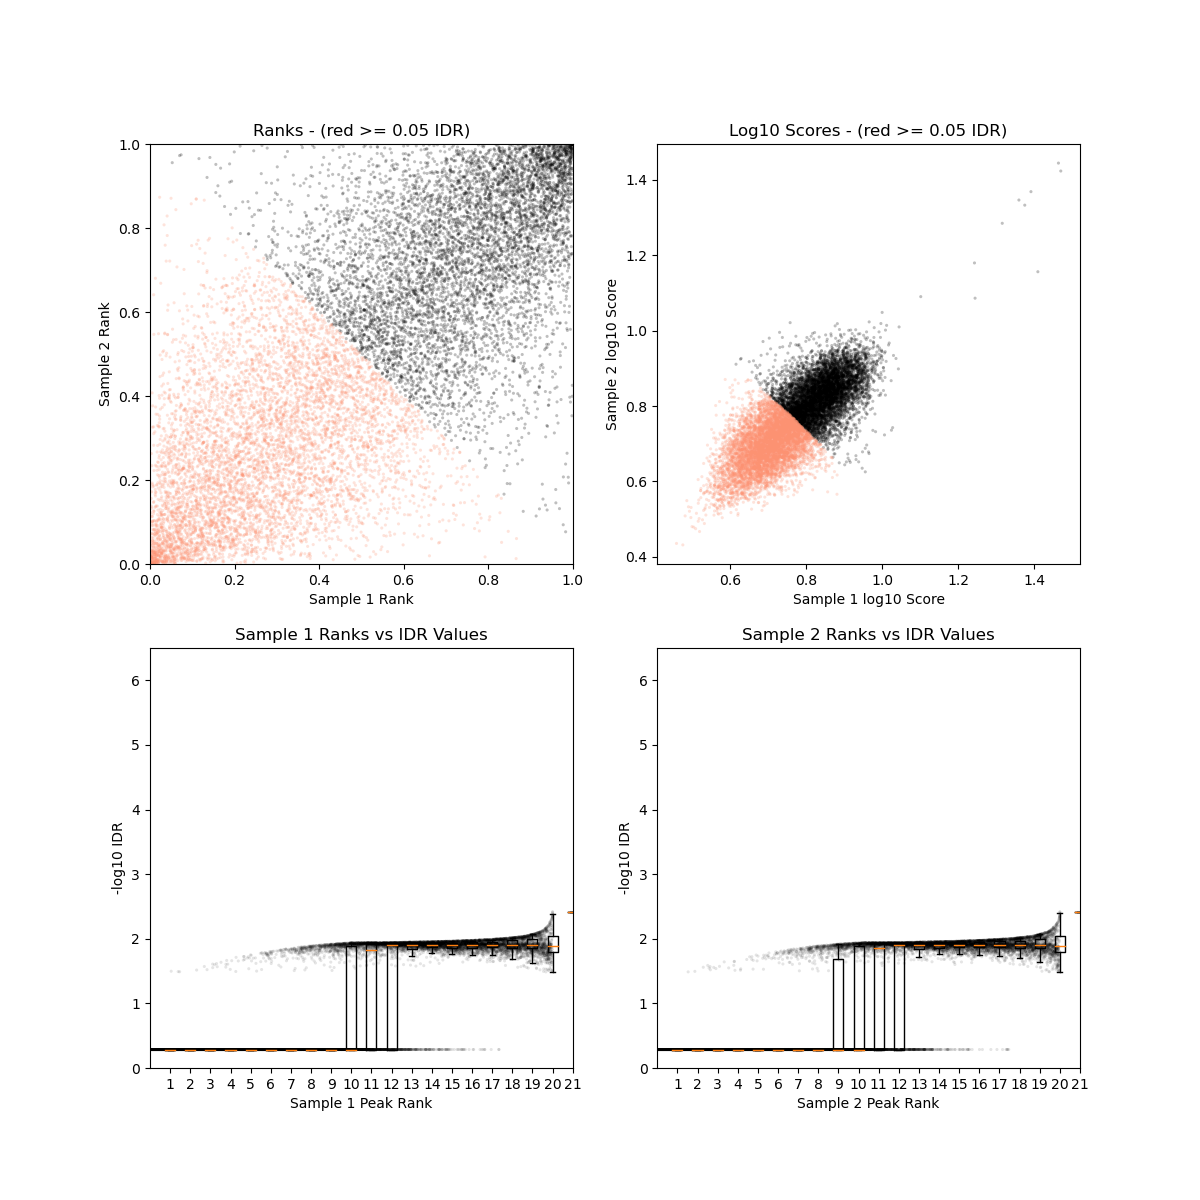
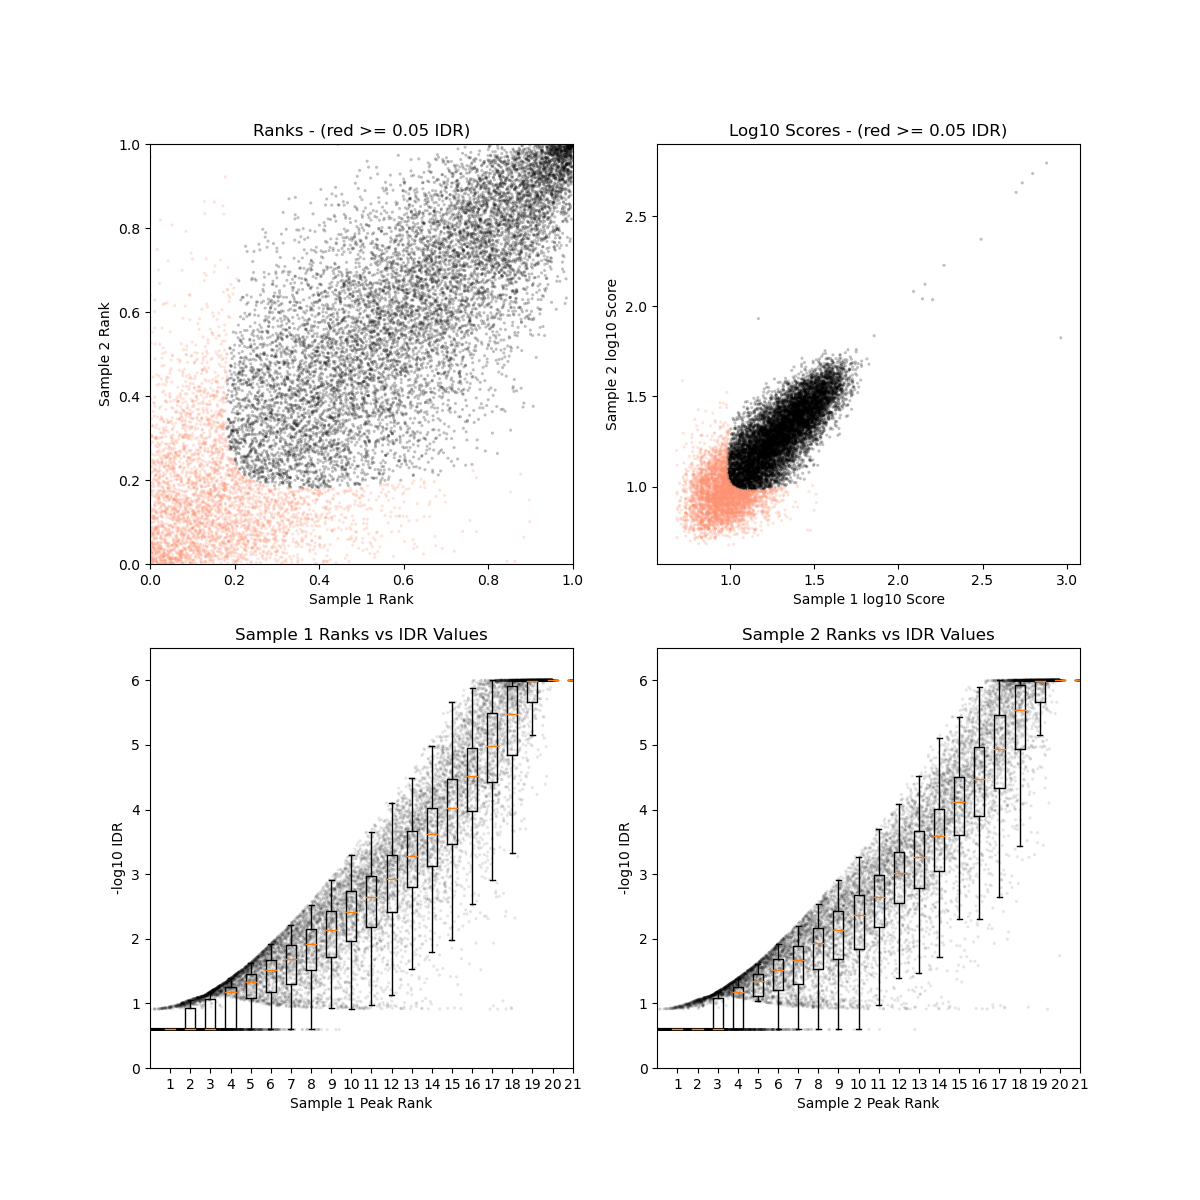
idr

diff --git a/ATAC完整流程.md b/ATAC完整流程.md
@@ -1494,7 +1494,7 @@ If starting with < 100K pre-IDR peaks for large genomes (human/mouse): For true 
 Use a tighter threshold for pooled-consistency since pooling and subsampling equalizes the pseudo-replicates in terms of data quality. Err on the side of caution and use more stringent IDR threshold of 0.01.  
 
 ```
-4. 代码：尝试分别用默认signal.value和-log10(p-value)排序比较结果，发现都可以，有的教程推荐使用pvalue排序。In addition the narrowPeak files have to be sorted by the -log10(p-value) column.    
+4. 代码：尝试分别用默认signal.value和-log10(p-value)排序比较结果，推荐使用pvalue排序。In addition the narrowPeak files have to be sorted by the -log10(p-value) column.    
 
 * signal.value排序
 ```bash
@@ -1553,7 +1553,8 @@ idr --samples SRR11539115_peaks.narrowPeak.8thsorted SRR11539116_peaks.narrowPea
 
 * 含有common peaks的txt文件
 ```bash
-chr9    123461801       123462182       .       1000    .       54.89443        -1      -1      195     2.415815       2.415815 123461801       123462182       28.05049        196     123461801       123462182       26.84394        194
+
+chr16   11143929        11144303        .       1000    .       -1      622.33362       -1      185     5.000000       5.000000 11143929        11144303        759.39752       187     11143932        11144299        622.33362       180
 # chr， 起始位置， 终止位置， name， score， 链， signalValue float， p-value float，q-value float，summit，Local IDR value，Global IDR value，rep1_chromStart，rep1_chromEnd，rep2_chromStart，rep2_chromEnd  
 ```
 ！ 注意：第五列score int  
@@ -1590,15 +1591,14 @@ wc -l *.txt
   # 13340 12_signal_value.txt
   # 15709 56_pvalue.txt
   # 15709 56_signal_value.txt
-  # 58098 total
 # 相当于 样本1和2有13340个overlap的peaks，样本5和6有15709个overlap的peaks
 # 不管用什么排序方法，commonpeak都是一样的，下面采用pvalue排序文件
 
 # 筛选出IDR<0.05，IDR=0.05, int(-125log2(0.05)) = 540，即第五列>=540
 awk '{if($5 >= 540) print $0}' 12_pvalue.txt > 12_IDR0.05.txt
-wc -l 12_IDR0.05.txt #6656
+wc -l 12_IDR0.05.txt #9716
 awk '{if($5 >= 540) print $0}' 56_pvalue.txt > 56_IDR0.05.txt
-wc -l 56_IDR0.05.txt #7814
+wc -l 56_IDR0.05.txt #11520
 ```
 
 
